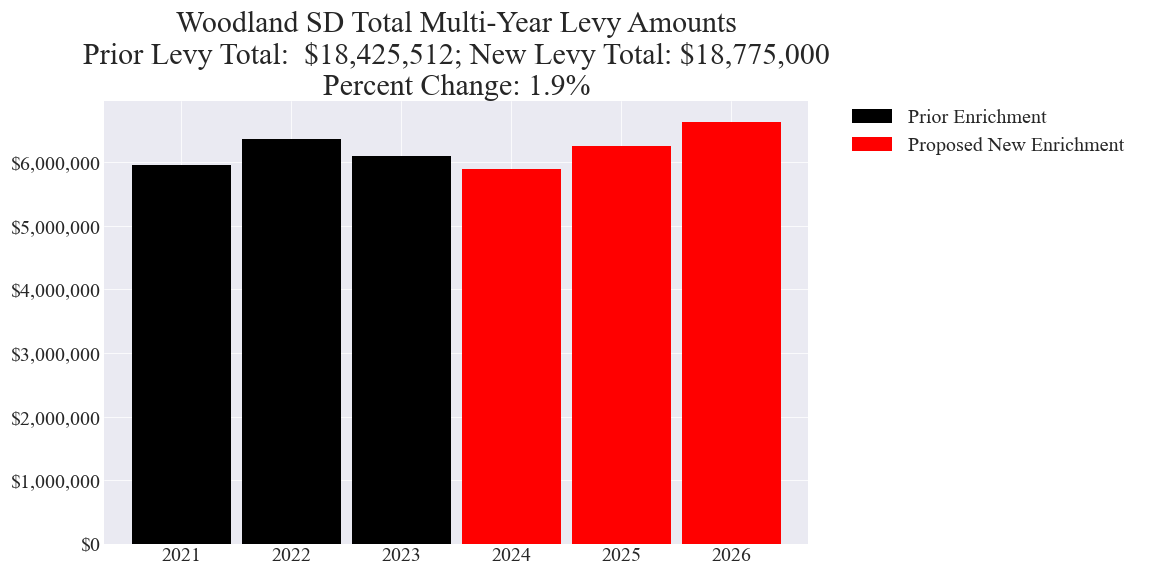
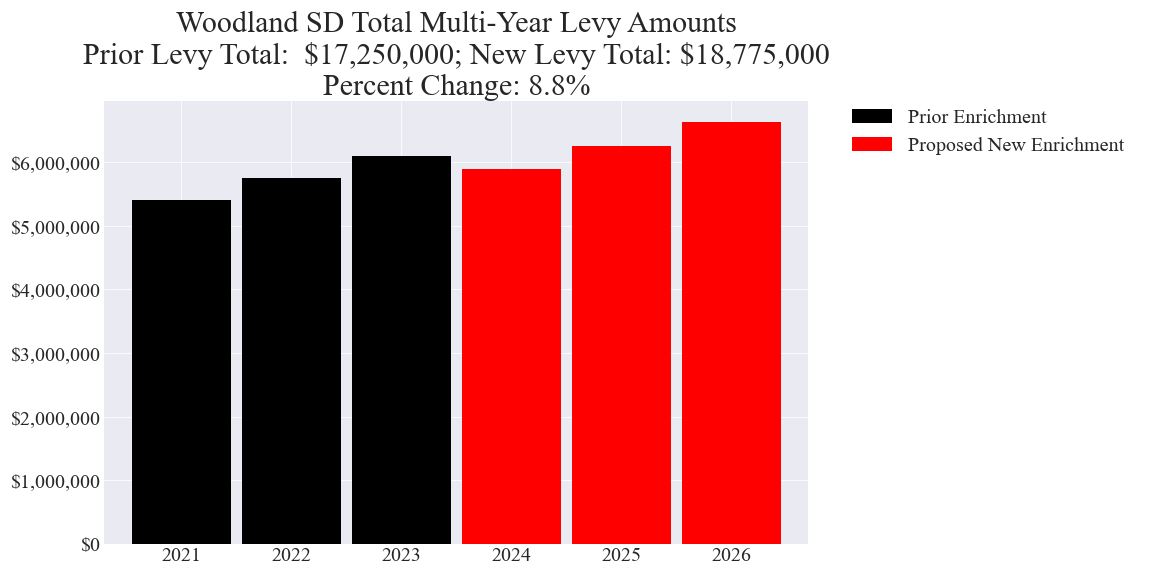
Updated Kalama

Changed region(s): [[0.0938, 0.2188, 0.3125, 0.375], [0.2812, 0.0625, 0.4062, 0.125], [0.4375, 0.125, 0.5, 0.1562]]

diff --git a/_includes/cost_estimates/20230214/Woodland_20230214_Enhanced.html b/_includes/cost_estimates/20230214/Woodland_20230214_Enhanced.html
@@ -10,16 +10,16 @@
 	var chart;
 	var dataParcel;
 	
-	totalLevyAV = 2739994786.0;
+	totalLevyAV = 2473822654.0;
 	sampleParcelAV = 600000.0;
 	sampleParcelAVMin = 100000.0;
 	sampleParcelAVMax = 2000000.0;
-	totalLevyCost = 11334987.0;
+	totalLevyCost = 18775000.0;
 	sampleParcelPOF = sampleParcelAV / totalLevyAV;
 	totalLevyCostParcel = sampleParcelPOF * totalLevyCost;
 	levyYears = 3.0;
 	averageTotalLevyCostParcel = totalLevyCostParcel / levyYears;
-	totalLevyPriorCost = 18425512.0;
+	totalLevyPriorCost = 17250000.0;
 	totalLevyPriorCostParcel = sampleParcelPOF * totalLevyPriorCost;
 	averageTotalLevyPriorCostParcel = totalLevyPriorCostParcel / levyYears;
 	// POF Annual Change Percent
@@ -37,8 +37,8 @@
 		data.addColumn('number', 'New Levy Amount');
 
 		data.addRows([
-			['2021', 5956838, 0],
-			['2022', 6368674, 0],
+			['2021', 5400000, 0],
+			['2022', 5750000, 0],
 			['2023', 6100000, 0],
 			['2024', 0, 5900000],
 			['2025', 0, 6250000],
